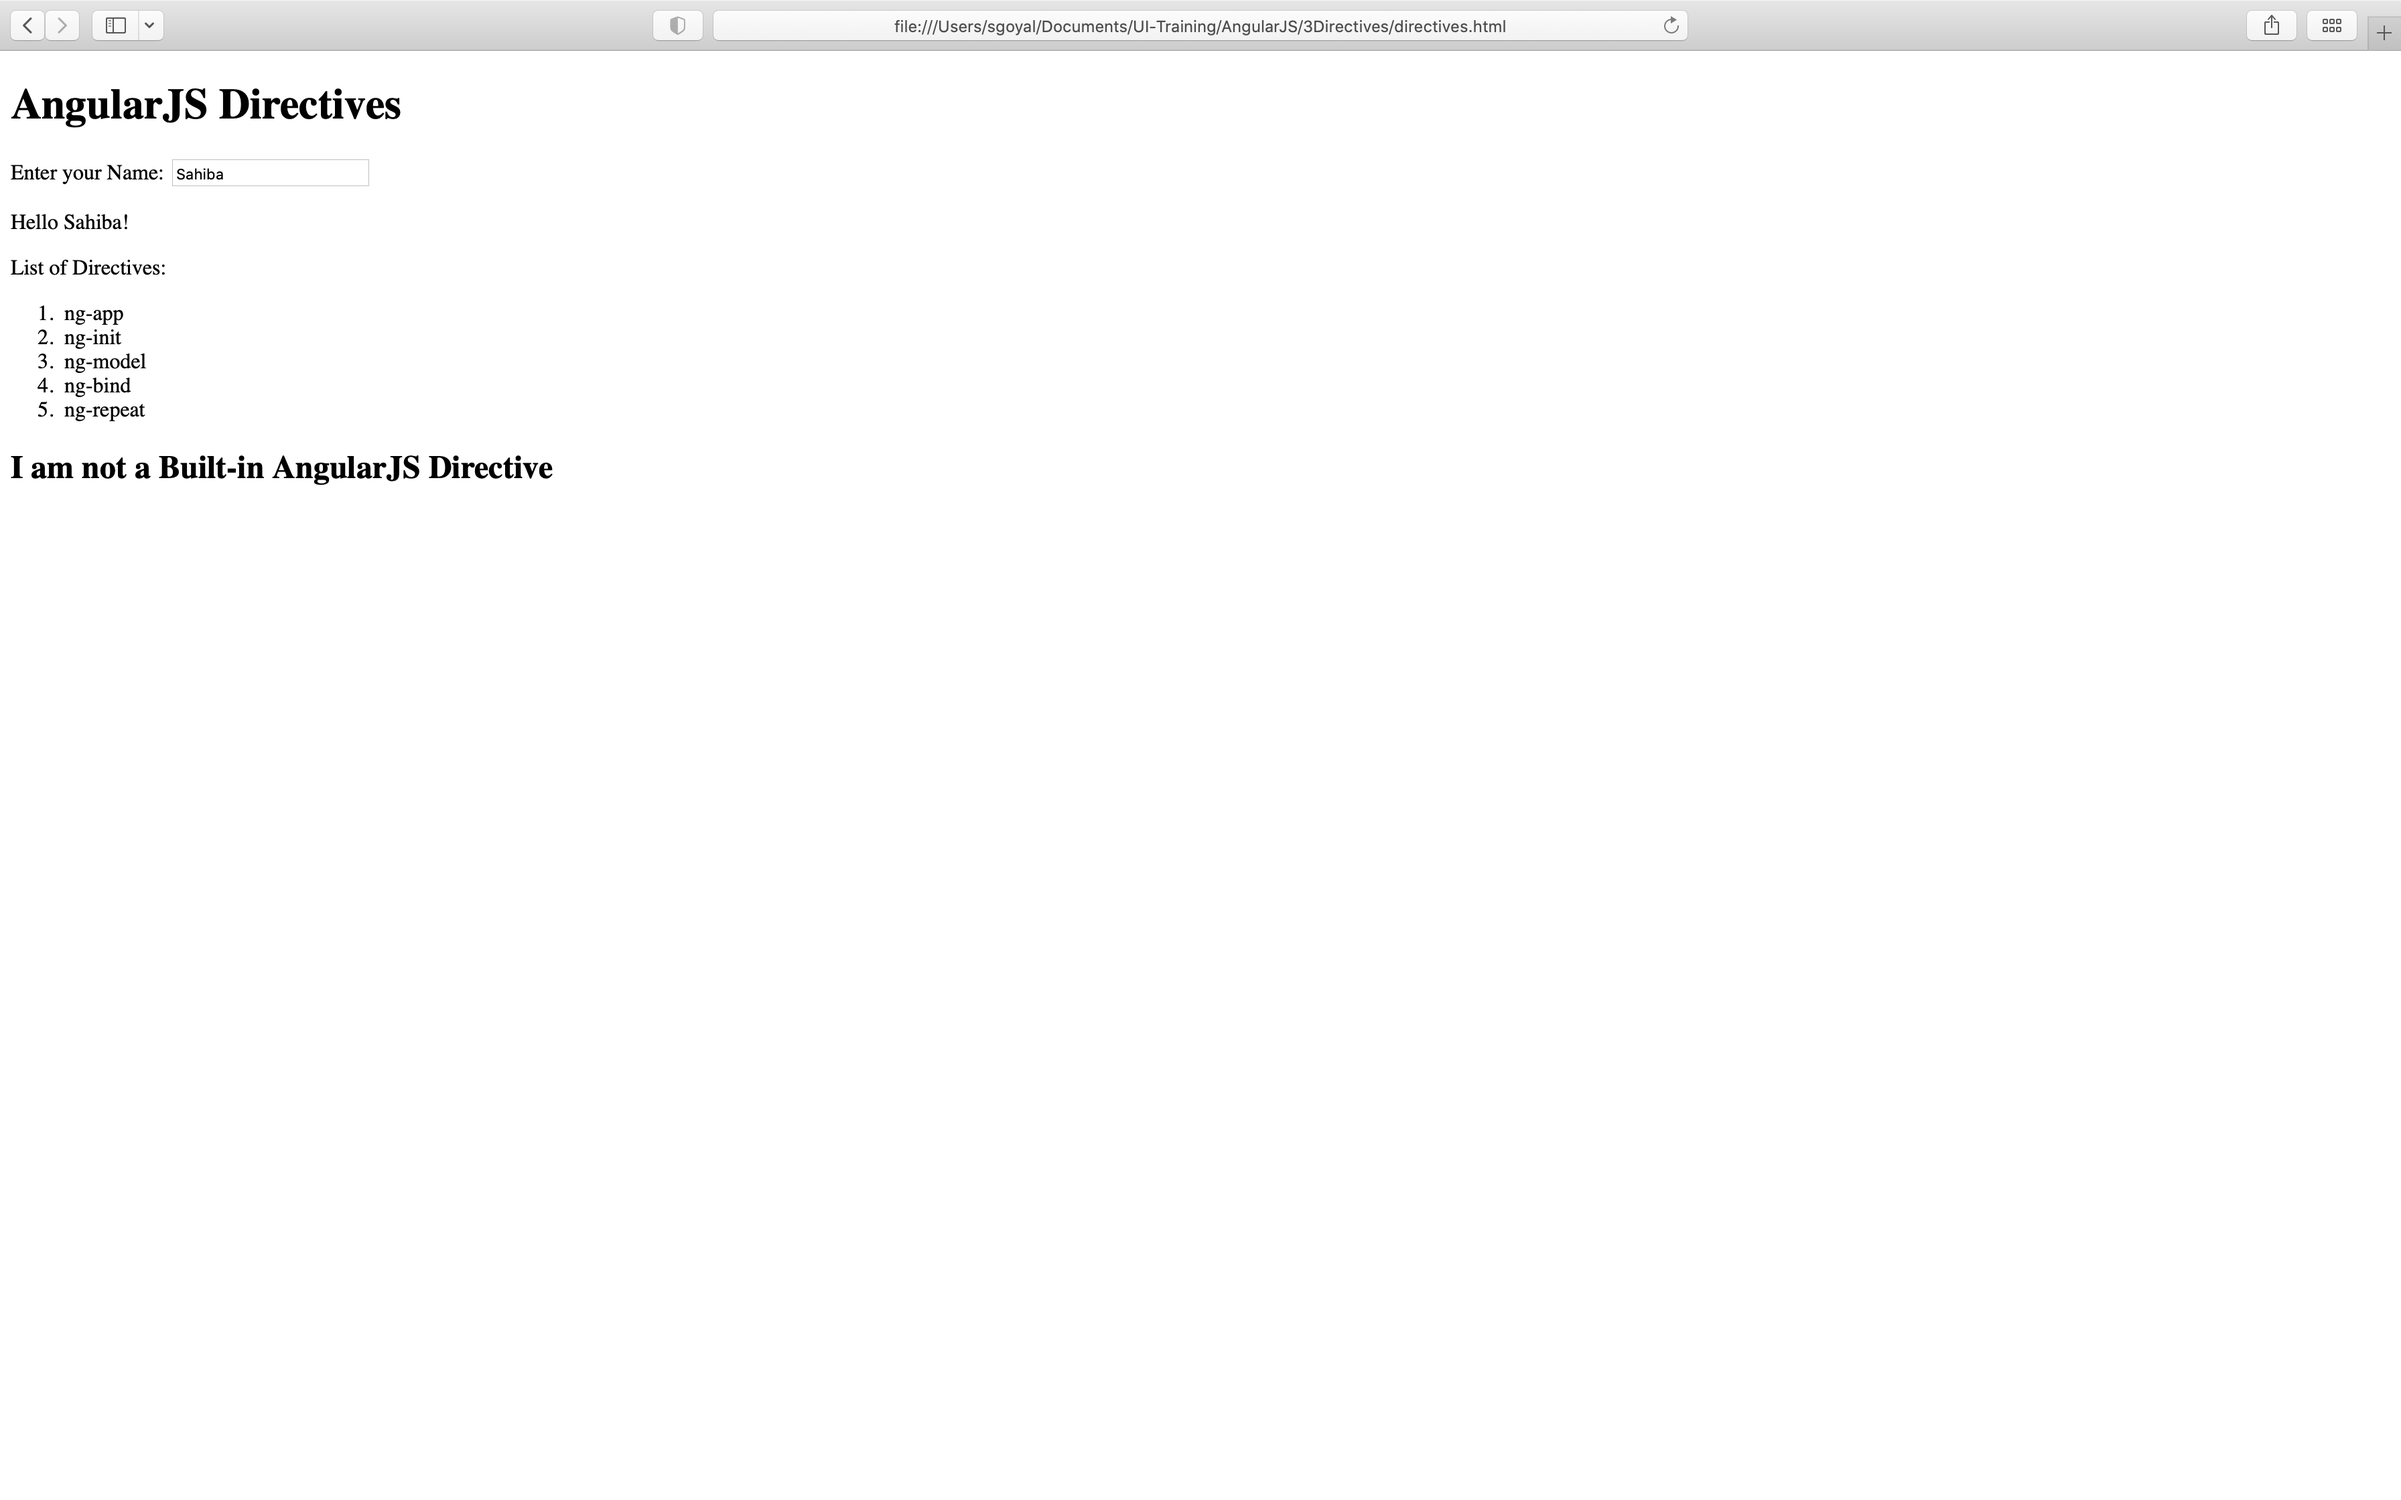
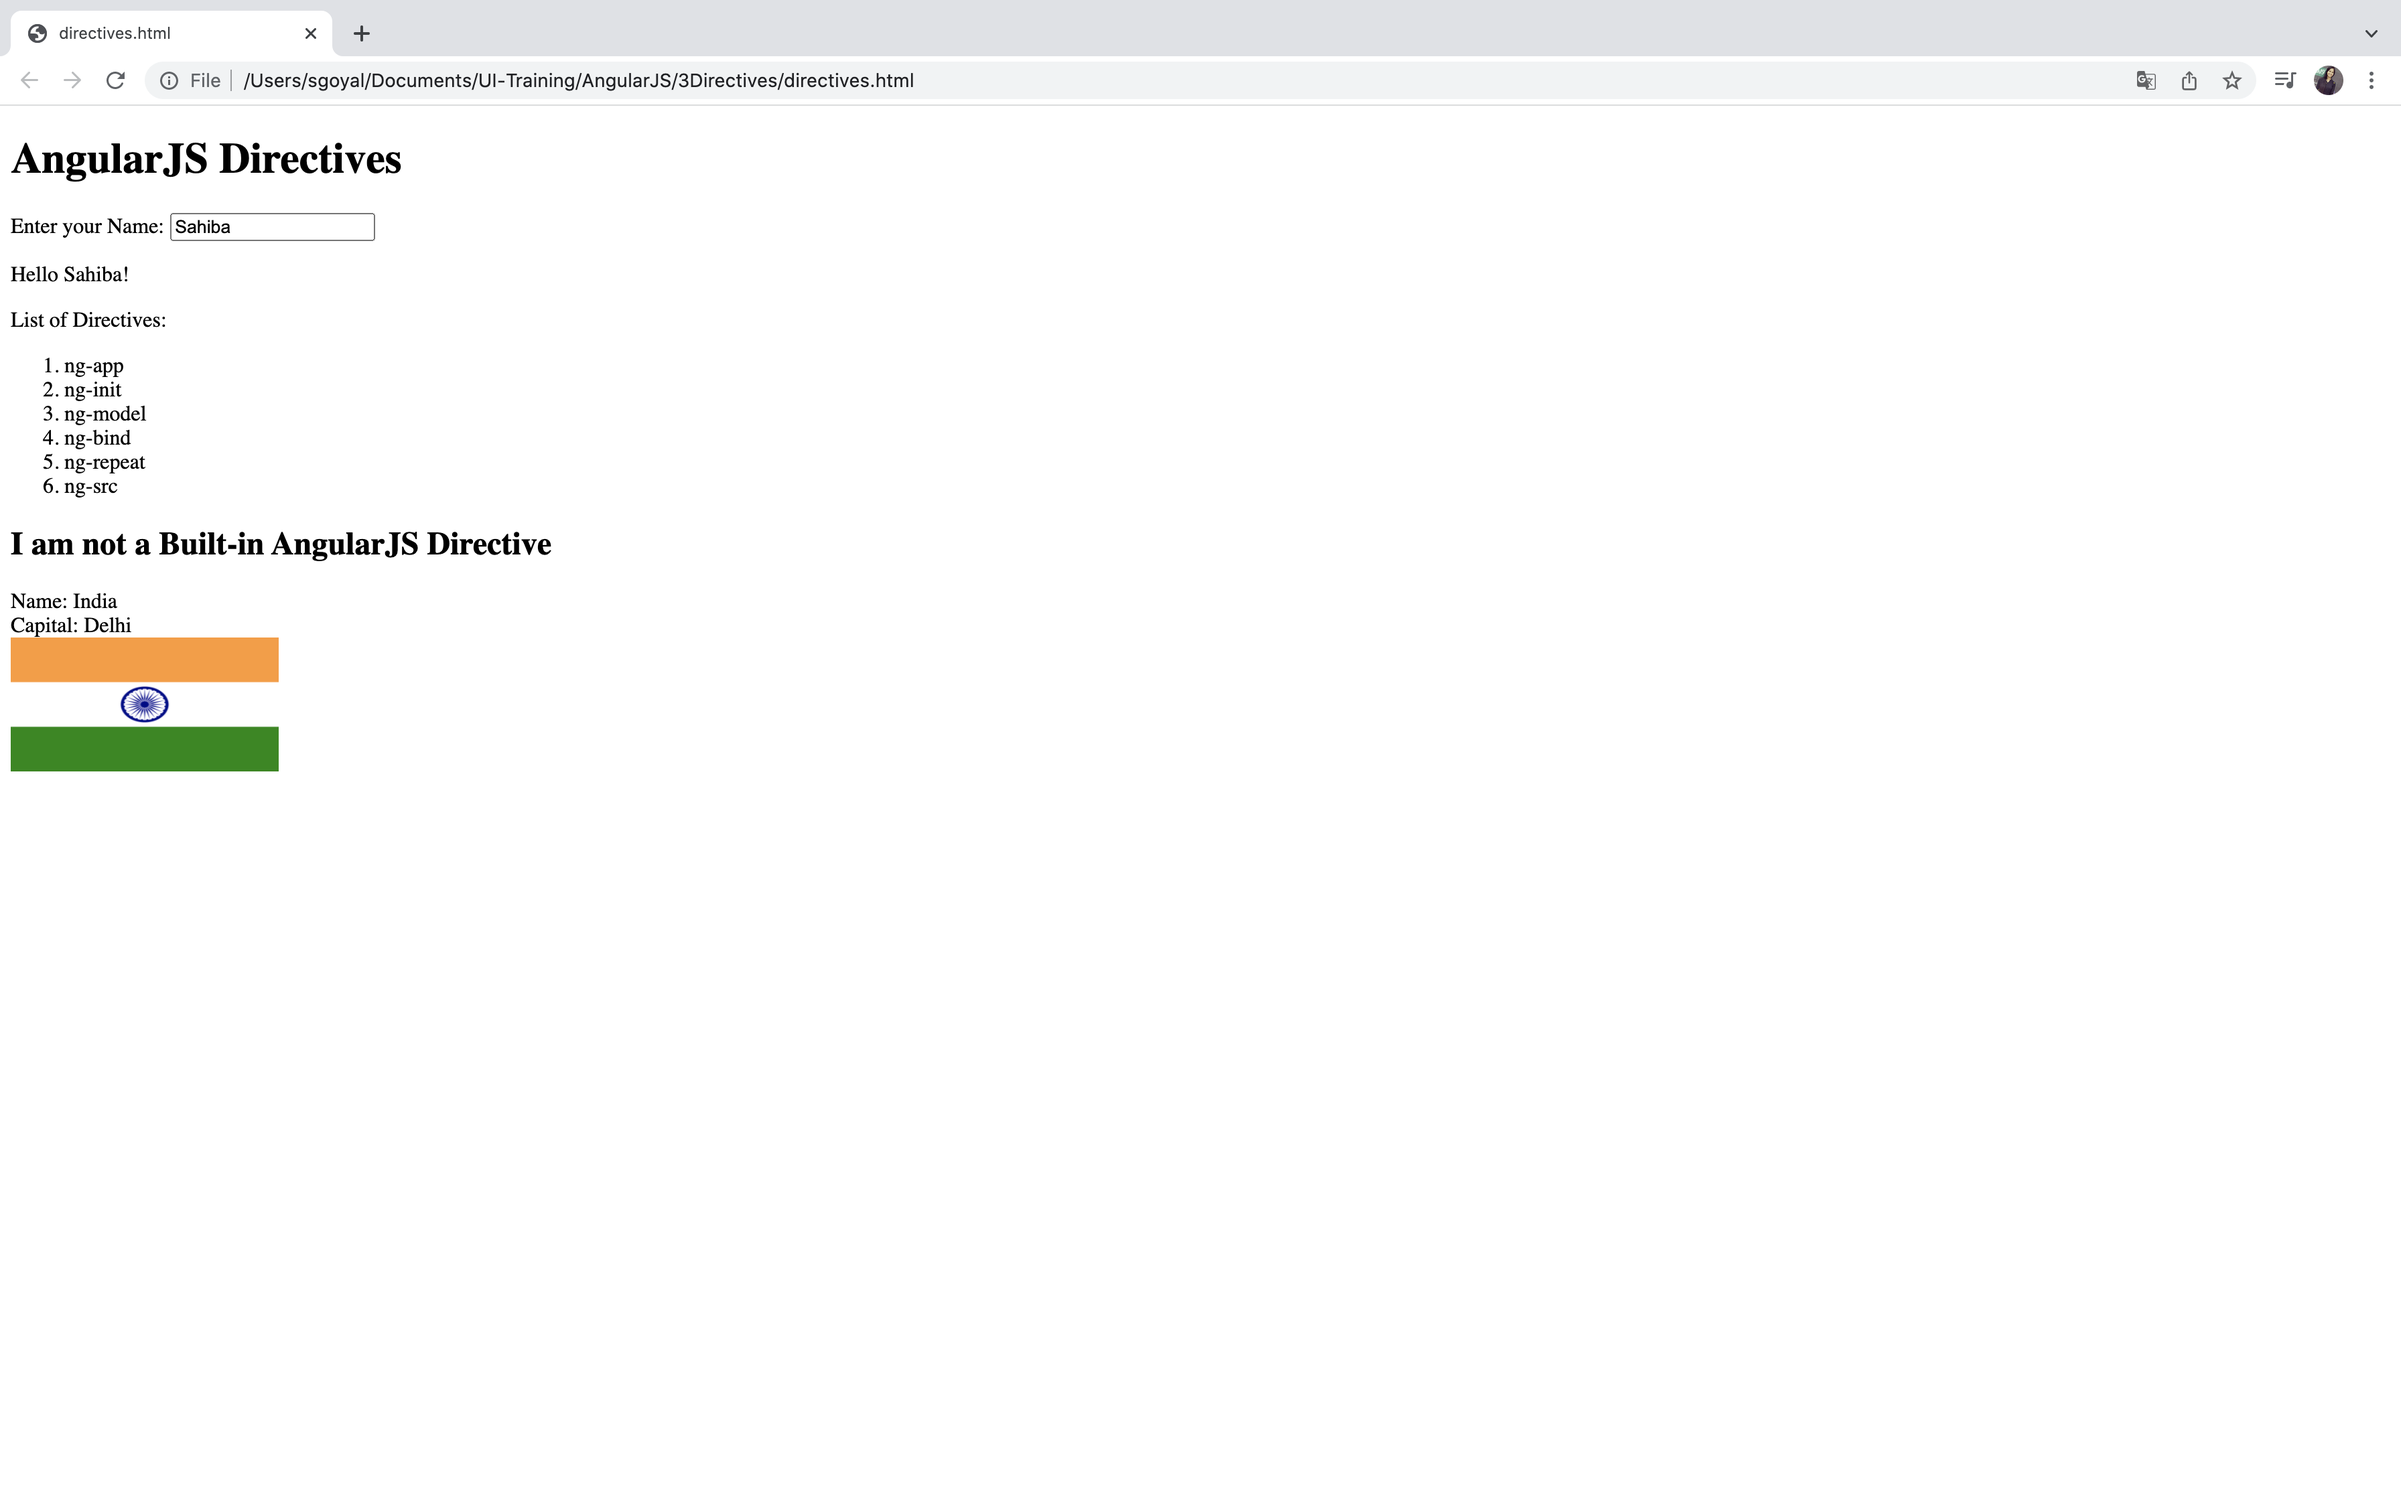
Adding and modified some files

Changed region(s): [[0.0, 0.0, 1.0, 0.375], [0.0, 0.4062, 0.125, 0.5312]]

diff --git a/AngularJS/6Filters/filters.html b/AngularJS/6Filters/filters.html
@@ -10,7 +10,7 @@
 <body ng-app="myApp">
     <h1>AngularJS Filters</h1>
     <div ng-controller="myCtrl">
-        <h3>Filters used: uppercase, lowercase, date, number, currency, limitTo, orderBy</h3>
+        <h3><u>Filters used: uppercase, lowercase, date, number, currency, limitTo</u></h3>
         Rows to display: <input type="number" step="1" min="0" max="5" ng-model="rowLimit"> <br><br>
         <table>
             <tr>
@@ -21,7 +21,9 @@
                 <th>Salary (currency)</th>
             </tr>
             <!-- Applying filters to directives -->
-            <tr ng-repeat="employee in employees | limitTo:rowLimit | orderBy:'salary'">
+            <!-- "+" is for ascending order and "-" is for desc order
+            can also use reverse like orderBy:'salary':false this means asc order-->
+            <tr ng-repeat="employee in employees | limitTo:rowLimit">
 
                 <!-- Applying filters to expressions -->
                 <td>{{ employee.name | uppercase }}</td>
@@ -32,8 +34,9 @@
             </tr>
         </table>
         <br>
+
         <div>
-            <h3>Filters used: filter</h3>
+            <h3><u>Filters used: filter</u></h3>
             <p>Enter some input: <input type="text" ng-model="test"></p>
             <ul>
                 <li ng-repeat="x in names | filter:test">
@@ -41,16 +44,105 @@
                     {{x}}
                 </li>
             </ul>
+            <br>
+            <h4>Filter by Name and Filter by Gender</h4>
+            <input type="text" placeholder="Search name" ng-model="searchText.name" />
+            <input type="text" placeholder="Search gender" ng-model="searchText.gender" />
+            <input type="checkbox" ng-model="exactMatch" /> Exact Match <br><br>
+            <table>
+                <tr>
+                    <th>Name</th>
+                    <th>Date of Birth</th>
+                    <th>Gender</th>
+                    <th>Salary (number)</th>
+                </tr>
+                <tr ng-repeat="employee in employees | filter:searchText:exactMatch">
+                    <td>{{ employee.name | uppercase }}</td>
+                    <td>{{ employee.dateOfBirth | date:"dd/MM/yyyy" }}</td>
+                    <td>{{ employee.gender | lowercase }}</td>
+                    <td>{{ employee.salary | number:2 }}</td>
+                </tr>
+            </table>
+
+            <br>
+            <h4>Filter by Name or Gender</h4>
+            <input class="setWidth" type="text" placeholder="Search by name or gender" ng-model="searchText1" />
+            <br><br>
+            <table>
+                <tr>
+                    <th>Name</th>
+                    <th>Date of Birth</th>
+                    <th>Gender</th>
+                    <th>Salary (number)</th>
+                </tr>
+                <tr ng-repeat="employee in employees | filter:search">
+                    <td>{{ employee.name | uppercase }}</td>
+                    <td>{{ employee.dateOfBirth | date:"dd/MM/yyyy" }}</td>
+                    <td>{{ employee.gender | lowercase }}</td>
+                    <td>{{ employee.salary | number:2 }}</td>
+                </tr>
+            </table>
         </div>
         <br>
+
         <div>
-            <h3>Filters used: Custom filter</h3>
+            <h3><u>Filters used: Custom filter</u></h3>
             <ul>
                 <li ng-repeat="x in names">
                     {{x | myFormat}}
                 </li>
             </ul>
         </div>
+        <br>
+
+        <h3><u>Filters used: orderBy</u></h3>
+        Sort by: <select ng-model="sortColumn1">
+            <option value="name">Name Asc</option>
+            <option value="dateOfBirth">Date of Birth Asc</option>
+            <option value="gender">Gender Asc</option>
+            <option value="-salary">Salary Desc</option>
+        </select><br><br>
+        <table>
+            <tr>
+                <th>Name</th>
+                <th>Date of Birth</th>
+                <th>Gender</th>
+                <th>Salary (number)</th>
+                <th>Salary (currency)</th>
+            </tr>
+            <tr ng-repeat="employee in employees | orderBy:sortColumn1">
+                <td>{{ employee.name | uppercase }}</td>
+                <td>{{ employee.dateOfBirth | date:"dd/MM/yyyy" }}</td>
+                <td>{{ employee.gender | lowercase }}</td>
+                <td>{{ employee.salary | number:2 }}</td>
+                <td>{{ employee.salary | currency:"$":1}}</td>
+            </tr>
+        </table>
+        <br>
+
+        <h3>Filters used: orderBy (Sort By Column Headers)</h3>
+        <table>
+            <tr>
+                <th ng-click="sortData('name')">
+                    Name <div ng-class="getSortClass('name')">
+                </th>
+                <th ng-click="sortData('dateOfBirth')">
+                    Date of Birth <div ng-class="getSortClass('dateOfBirth')"></div>
+                </th>
+                <th ng-click="sortData('gender')">
+                    Gender <div ng-class="getSortClass('gender')"> </div>
+                </th>
+                <th ng-click="sortData('salary')">
+                    Salary <div ng-class="getSortClass('salary')"> </div>
+                </th>
+            </tr>
+            <tr ng-repeat="employee in employees | orderBy : sortColumn : reverseSort">
+                <td>{{ employee.name | uppercase }}</td>
+                <td>{{ employee.dateOfBirth | date:"dd/MM/yyyy" }}</td>
+                <td>{{ employee.gender | lowercase }}</td>
+                <td>{{ employee.salary | number:2 }}</td>
+            </tr>
+        </table>
     </div>
 </body>
 

diff --git a/AngularJS/3Directives/directives.html b/AngularJS/3Directives/directives.html
@@ -5,11 +5,11 @@
     <script src="https://ajax.googleapis.com/ajax/libs/angularjs/1.8.2/angular.min.js"></script>
 </head>
 
-<body>
+<body ng-app="myModule">
     <h1>AngularJS Directives</h1>
-    <div ng-app="myModule" ng-init="directives = [{rate:'one',name:'ng-app'}, {rate:'two',name:'ng-init'},
-         {rate:'three',name:'ng-model'}, {rate:'four',name:'ng-bind'}, {rate:'five',name:'ng-repeat'}]; 
-         name = 'Sahiba'">
+    <div ng-init="directives = [{rate:'one',name:'ng-app'}, {rate:'two',name:'ng-init'},
+        {rate:'three',name:'ng-model'}, {rate:'four',name:'ng-bind'}, {rate:'five',name:'ng-repeat'},
+        {rate:'six',name:'ng-src'}]; name = 'Sahiba'">
         <p>Enter your Name: <input type="text" ng-model="name"></p>
         <p>Hello <span ng-bind="name"></span>!</p>
         <p>List of Directives: </p>
@@ -24,6 +24,19 @@
         <div class="my-test-directive"></div>        Using Class-->
         <!-- directive: my-test-directive       Using Comment -->
     </div>
+
+    <div ng-controller="myController">
+        <div>
+            Name: {{country.name}}
+        </div>
+        <div>
+            Capital: {{country.capital}}
+        </div>
+        <div>
+            <img ng-src="{{country.flag}}" alt="{{country.name + ' Flag'}}" style="height: 100px; width: 200px;">
+        </div>
+    </div>
+
     <script>
         var myapp = angular.module("myModule", []);
         myapp.directive("myTestDirective", function () {
@@ -34,6 +47,15 @@
                 template: "<h2> I am not a Built-in AngularJS Directive </h2>"
             };
         });
+        myapp.controller("myController", function ($scope) {
+            var country = {
+                name: "India",
+                capital: "Delhi",
+                flag: "Images/flag.png",
+            };
+
+            $scope.country = country;
+        })
     </script>
 </body>
 

diff --git a/AngularJS/6Filters/filters.js b/AngularJS/6Filters/filters.js
@@ -34,4 +34,27 @@ app.controller("myCtrl", function ($scope) {
         'Mary',
         'Kai'
     ];
+    $scope.sortColumn = "name";
+    $scope.reverseSort = false;
+    $scope.sortData = function (column) {
+        $scope.reverseSort = ($scope.sortColumn == column) ? !$scope.reverseSort : false;
+        $scope.sortColumn = column;
+    }
+
+    $scope.getSortClass = function (column) {
+        if ($scope.sortColumn == column) {
+            return $scope.reverseSort ? 'arrow-down' : 'arrow-up'
+        }
+        return '';
+    }
+
+    $scope.search = function (item) {
+        if ($scope.searchText1 == undefined)
+            return true;
+        else {
+            if (item.name.toLowerCase().indexOf($scope.searchText1.toLowerCase()) != -1 || item.gender.toLowerCase().indexOf($scope.searchText1.toLowerCase()) != -1)
+                return true;
+        }
+        return false;
+    }
 });

diff --git a/AngularJS/6Filters/filters.css b/AngularJS/6Filters/filters.css
@@ -15,9 +15,32 @@ th{
     border: 1px solid black;
     padding: 5px;
     text-align: left;
+    cursor: pointer;
 }
 
 input {
-    width: 60px;
+    width: 100px;
     border: 1px solid black;
+}
+
+.arrow-up {
+    height: 0;
+    width: 0;
+    border-left: 5px solid transparent;
+    border-right: 5px solid transparent;
+    border-bottom: 10px solid black;
+    display: inline-block;
+}
+
+.arrow-down {
+    height: 0;
+    width: 0;
+    border-left: 5px solid transparent;
+    border-right: 5px solid transparent;
+    border-top: 10px solid black;
+    display: inline-block;
+}
+
+.setWidth{
+    width: 170px;
 }

diff --git a/AngularJS/8Http/service.js b/AngularJS/8Http/service.js
@@ -1,0 +1,13 @@
+var app = angular.module('httpApp', []);
+app.controller('httpController', function ($scope, $http, $log) {
+    $http({
+        method: 'GET',
+        url: "http://api.geonames.org/citiesJSON?north=44.1&south=-9.9&east=-22.4&west=55.2&lang=de&username=sibeeshvenu"
+    }).success(function (response) {
+        $scope.details = response.geonames;
+        $log.info(response);
+    }, function (reason) {
+        $scope.error = reason.status;
+        $log.info(reason);
+    });
+});

diff --git a/AngularJS/8Http/service.html b/AngularJS/8Http/service.html
@@ -1,0 +1,19 @@
+<!DOCTYPE html>
+<html xmlns="http://www.w3.org/1999/xhtml">
+
+<head>
+    <script src="https://ajax.googleapis.com/ajax/libs/angularjs/1.3.14/angular.min.js"></script>
+    <script src="service.js"></script>
+</head>
+
+<body>
+    <div ng-app="httpApp" ng-controller="httpController">
+        {{error.message}}
+        <ul>
+            <li ng-repeat="det in details">{{ det.name + ', ' + det.countrycode }}
+            </li>
+        </ul>
+    </div>
+</body>
+
+</html>

diff --git a/AngularJS/4Model/model.html b/AngularJS/4Model/model.html
@@ -2,7 +2,7 @@
 <html>
 
 <head>
-    <script src="../Scripts/angular.js"></script>
+    <script src="../0Scripts/angular.js"></script>
     <script src="databinding.js"></script>
 
     <style>
